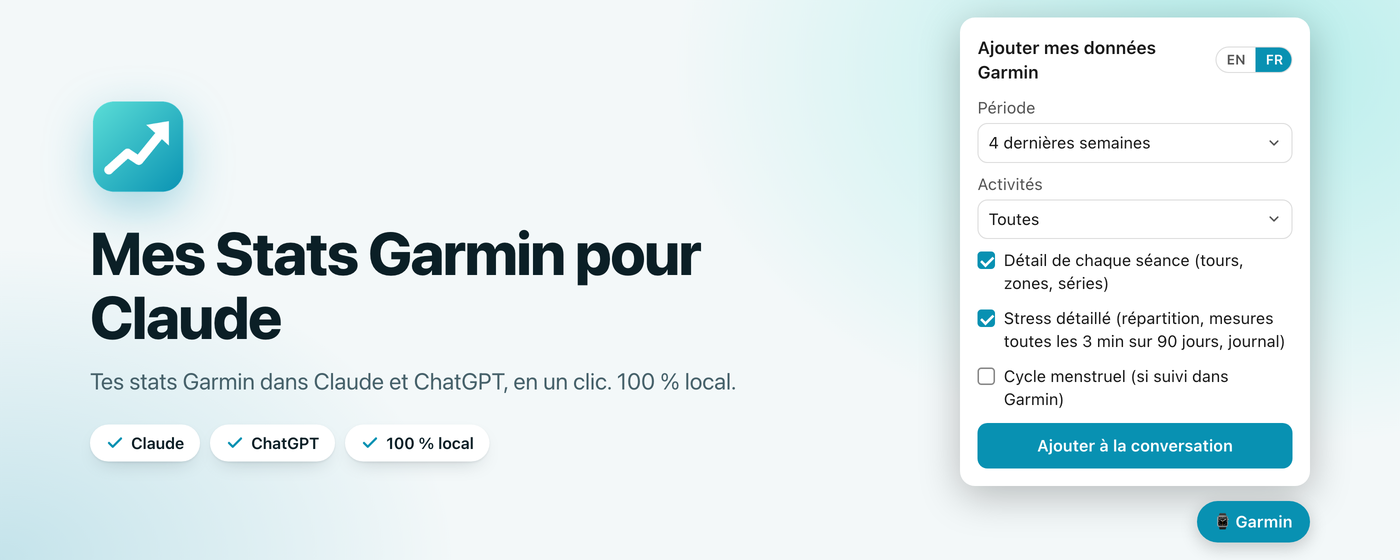
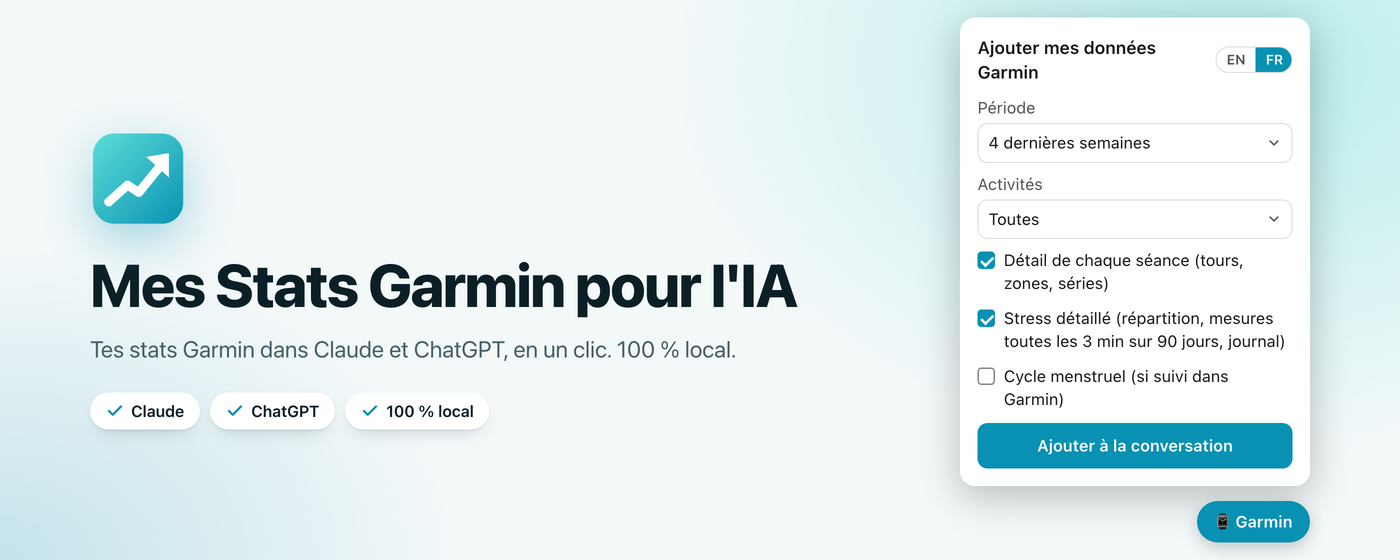
Nouveau nom : My Garmin Stats for AI / Mes Stats Garmin pour l'IA

Changed region(s): [[0.0614, 0.1821, 0.5836, 0.6375], [0.0614, 0.6679, 0.5221, 0.85]]

diff --git a/i18n.js b/i18n.js
@@ -6,7 +6,7 @@ let LANG = DEFAULT_LANG;
 
 const UI_TEXT = {
   en: {
-    appName: "My Garmin Stats for Claude",
+    appName: "My Garmin Stats for AI",
     panelTitle: "Add my Garmin data",
     fabTitle: "Add my Garmin data to the conversation",
     period: "Period",
@@ -58,7 +58,7 @@ const UI_TEXT = {
     since: "Since {date} ({n} day{s})",
   },
   fr: {
-    appName: "Mes Stats Garmin pour Claude",
+    appName: "Mes Stats Garmin pour l'IA",
     panelTitle: "Ajouter mes données Garmin",
     fabTitle: "Ajouter mes données Garmin à la conversation",
     period: "Période",

diff --git a/popup.html b/popup.html
@@ -2,7 +2,7 @@
 <html lang="en">
 <head>
   <meta charset="utf-8">
-  <title>My Garmin Stats for Claude</title>
+  <title>My Garmin Stats for AI</title>
   <style>
     body { width: 360px; margin: 0; padding: 16px; font: 13px/1.4 system-ui, sans-serif; color: #1a1a1a; }
     header { display: flex; align-items: center; justify-content: space-between; margin: 0 0 12px; }

diff --git a/store/make_store_images.py b/store/make_store_images.py
@@ -21,7 +21,7 @@ CHROME = "/Applications/Google Chrome.app/Contents/MacOS/Google Chrome"
 
 TEXT = {
     "en": {
-        "name": "My Garmin Stats for Claude",
+        "name": "My Garmin Stats for AI",
         "sites": {
             "claude": ("Right inside <em>Claude</em>", "The Garmin button appears in the corner of every chat."),
             "chatgpt": ("And inside <em>ChatGPT</em>", "Same button, same file, one click."),
@@ -70,7 +70,7 @@ TEXT = {
         "promo": ["Your Garmin stats", "in your AI chat."],
     },
     "fr": {
-        "name": "Mes Stats Garmin pour Claude",
+        "name": "Mes Stats Garmin pour l'IA",
         "sites": {
             "claude": ("Directement dans <em>Claude</em>", "Le bouton Garmin apparaît dans le coin de chaque conversation."),
             "chatgpt": ("Et dans <em>ChatGPT</em>", "Même bouton, même fichier, en un clic."),

diff --git a/store/LISTING.md b/store/LISTING.md
@@ -9,10 +9,10 @@ La fiche existe en deux langues : anglais (langue par défaut) et français.
 
 Le **nom** et le **résumé** viennent du manifeste (`_locales/en` et `_locales/fr`) : rien à saisir.
 
-- Nom : `My Garmin Stats for Claude` / `Mes Stats Garmin pour Claude`
+- Nom : `My Garmin Stats for AI` / `Mes Stats Garmin pour l'IA`
 - Résumé : `Add your Garmin Connect stats (activities, sleep, HRV, fitness) to Claude or ChatGPT in one click. 100% local.`
 
-Nom de secours si Google refuse à cause des marques : `My Watch Stats` / `Mes Stats Montre` (dans `_locales/*/messages.json` et `i18n.js`).
+Nom de secours si Google refuse à cause des marques : `My Watch Stats for AI` / `Mes Stats Montre pour l'IA` (dans `_locales/*/messages.json` et `i18n.js`).
 
 ### Description en anglais (langue par défaut)
 

diff --git a/README.md b/README.md
@@ -1,4 +1,4 @@
-# Mes Stats Garmin pour Claude
+# Mes Stats Garmin pour l'IA
 
 Extension Chrome qui ajoute tes données Garmin Connect à une conversation Claude en un clic : activités, détail des séances, sommeil, HRV, FC au repos, stress, Body Battery, VO2 max, statut d'entraînement et prédictions de course.
 

diff --git a/PUBLISH.md b/PUBLISH.md
@@ -1,4 +1,4 @@
-# Publier Mes Stats Garmin pour Claude : check-list
+# Publier Mes Stats Garmin pour l'IA : check-list
 
 Ce qui est prêt est coché. Le reste demande ton compte ou ton action.
 
